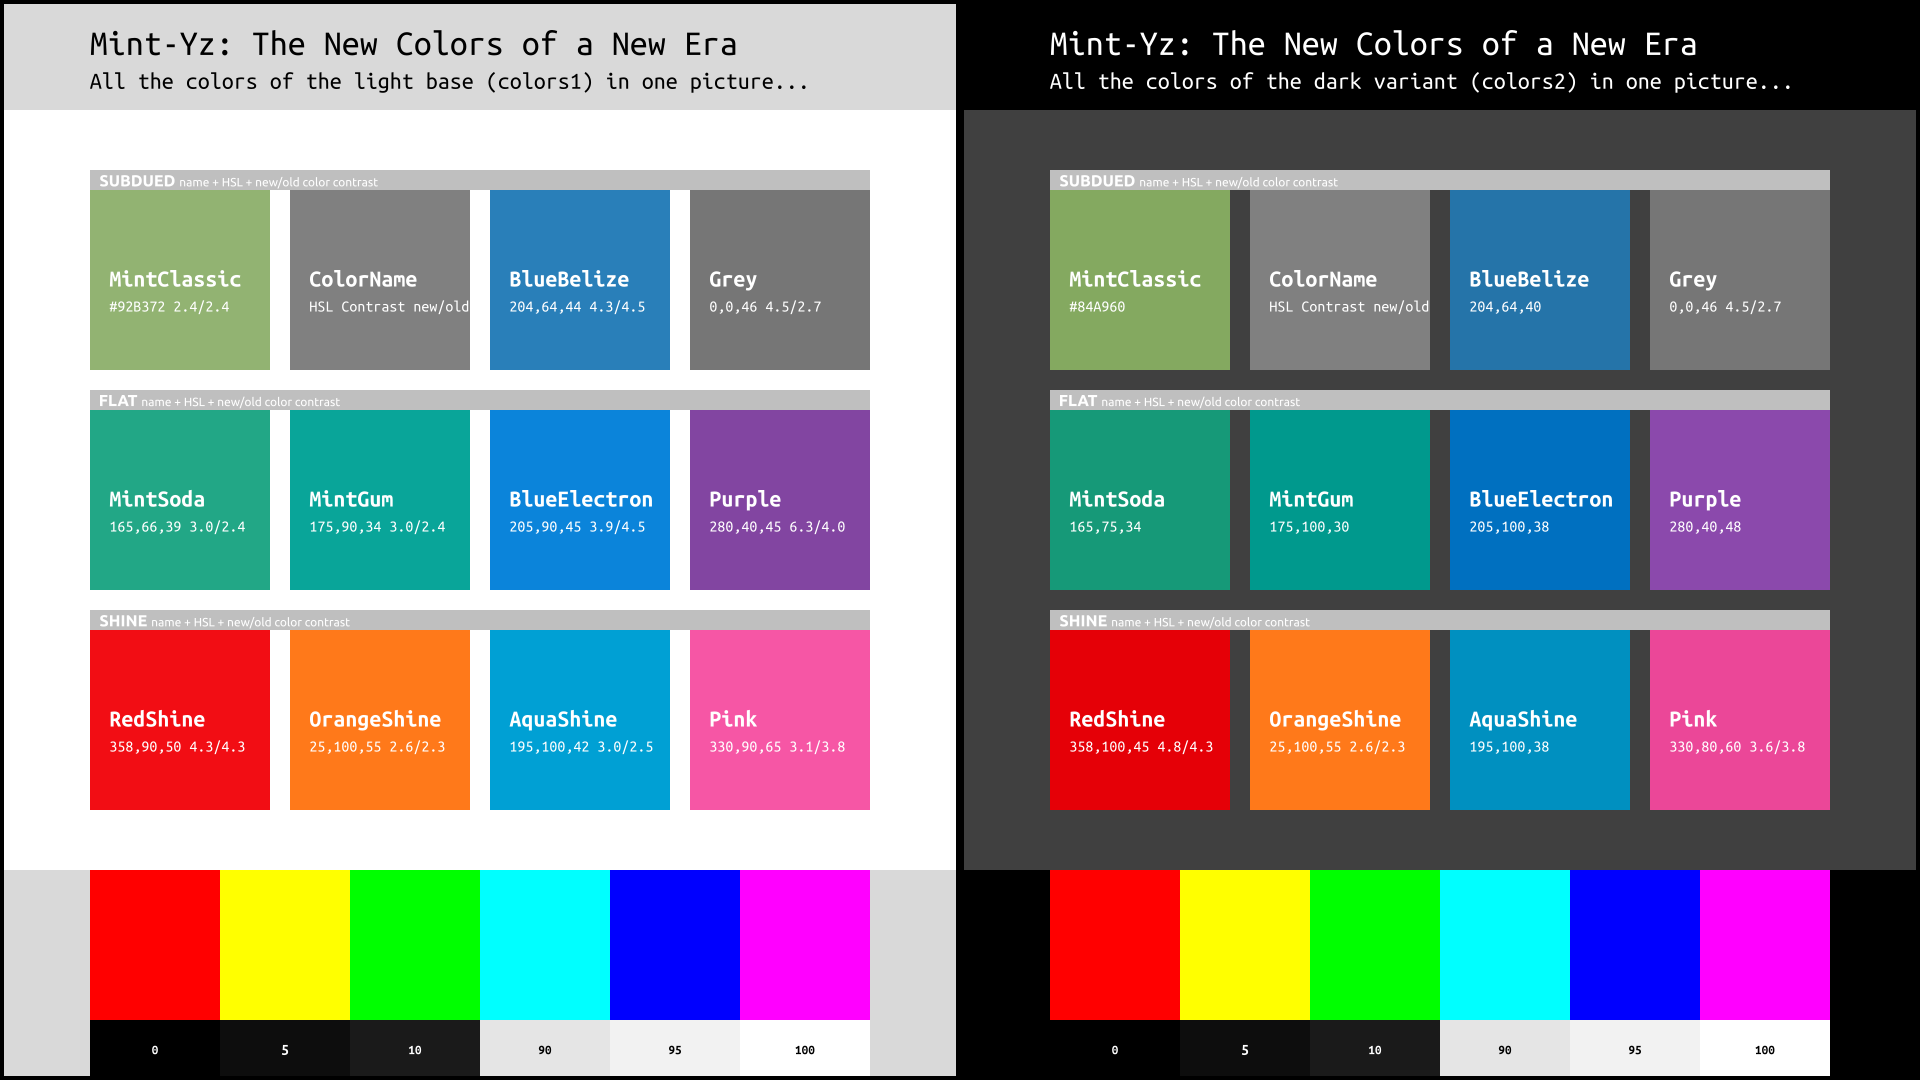
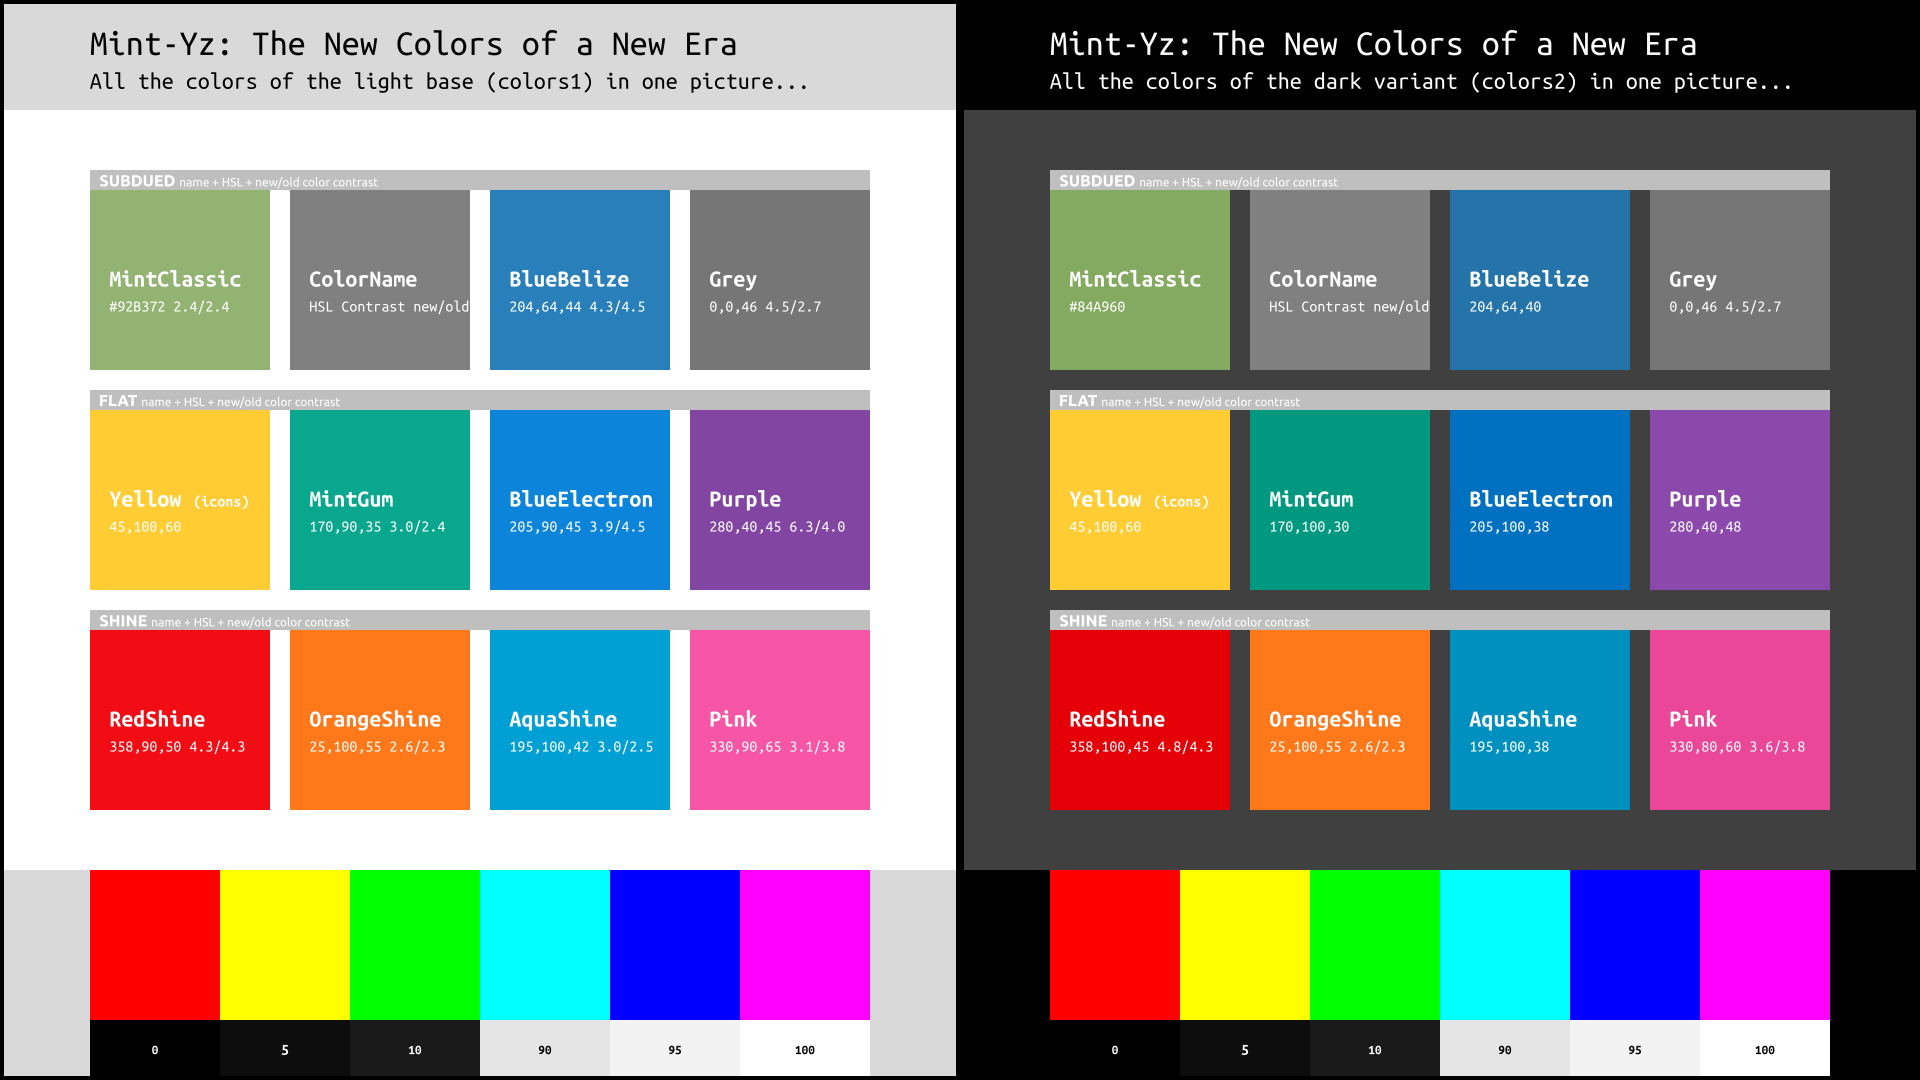
modified:   constants.py (DEL MintSoda, mod MintGum (170,90,35))
modified:   Mint-Y-Colors/Mint-Y-Variations-compare-OLD.png
	modified:   Mint-Y-Colors/Mint-Y-Variations.png
	modified:   Mint-Y-Colors/Mint-Y-Variations.svg

Changed region(s): [[0.5312, 0.3667, 0.6562, 0.55], [0.0312, 0.3667, 0.1562, 0.55]]

diff --git a/constants.py b/constants.py
@@ -20,11 +20,8 @@ y_hex_colors2["BlueBelize"] = "#2574A9"
 y_hex_colors1["Grey"] = "#767676"
 y_hex_colors2["Grey"] = "#767676"
 
-y_hex_colors1["MintSoda"] = "#22A786"
-y_hex_colors2["MintSoda"] = "#169978"
-
-y_hex_colors1["MintGum"] = "#09A599"
-y_hex_colors2["MintGum"] = "#00998D"
+y_hex_colors1["MintGum"] = "#09A78D"
+y_hex_colors2["MintGum"] = "#009980"
 
 y_hex_colors1["BlueElectron"] = "#0B84DA"
 y_hex_colors2["BlueElectron"] = "#0070C0"
